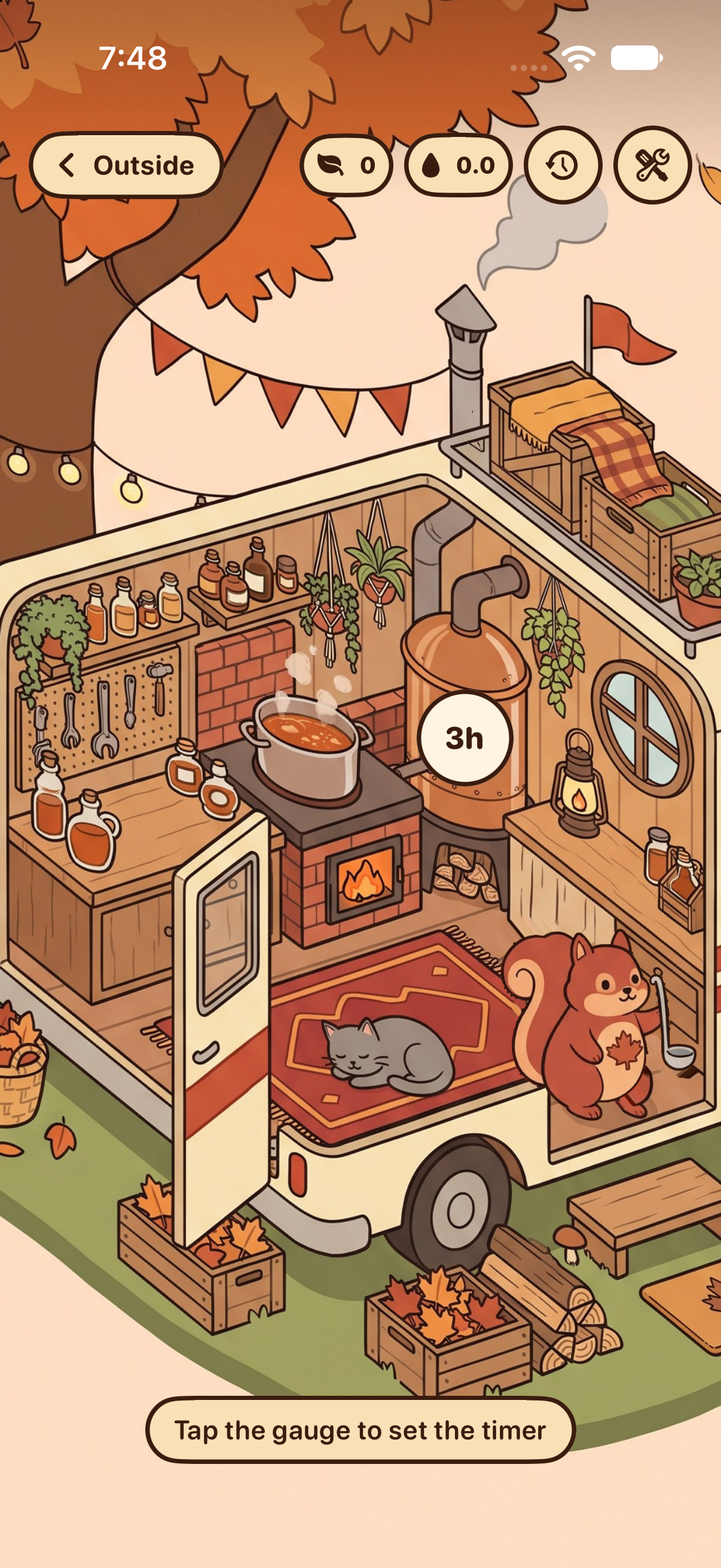
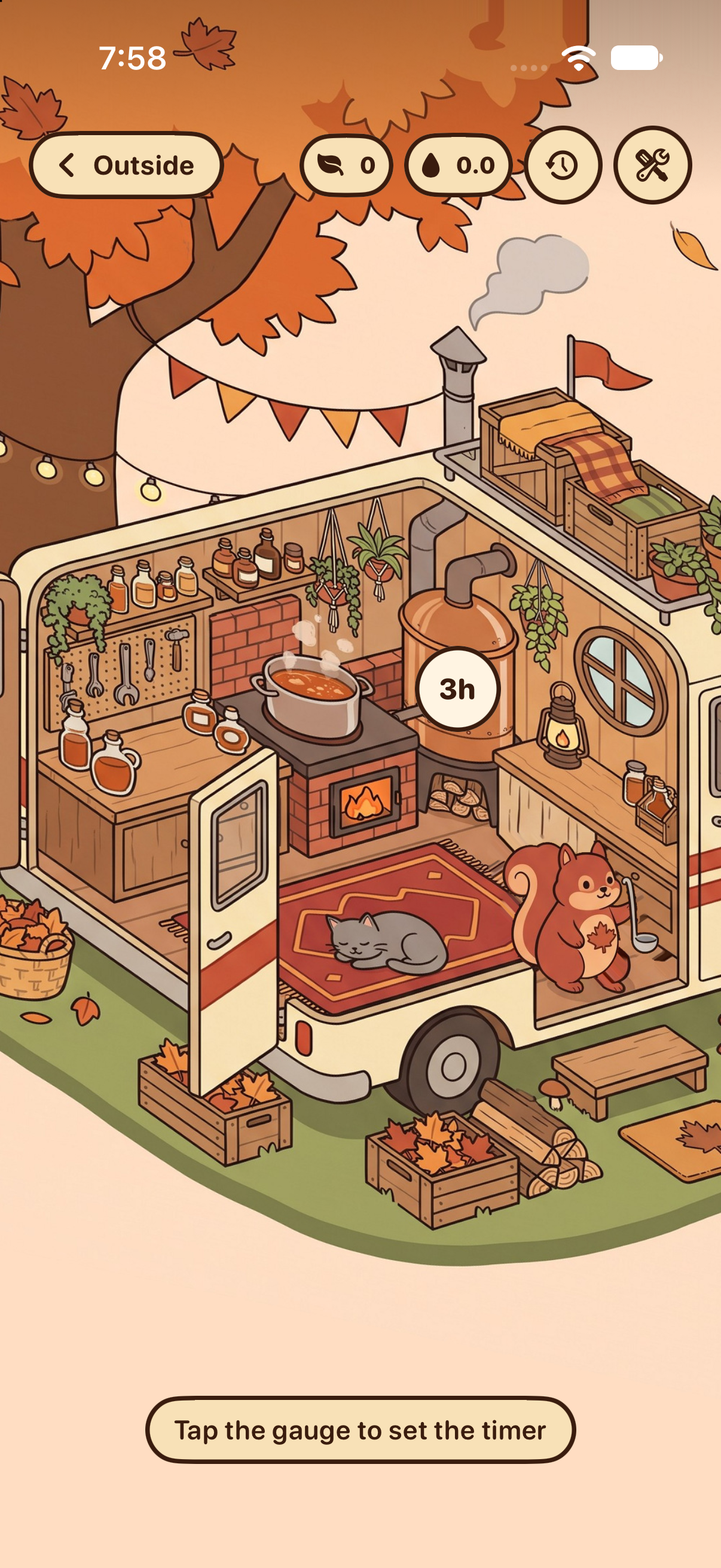
Inside the van: the van a little longer, the camera a little further back
The owner asked to "elongate the van a bit and zoom it out just a
little". The room is stretched 1.15 along the screen's width and seen
from 1.25 further back; Pip is neither stretched nor turned, only
smaller with the camera. The tap targets follow the picture.

diff --git a/App/Features/Van/VanWorkshopView.swift b/App/Features/Van/VanWorkshopView.swift
@@ -3,7 +3,8 @@ import MapleDesign
 import MapleServices
 import SwiftUI
 
-/// The workshop: the concept picture closer in, turned a little toward the front (syrup van design §5.2). The dial on
+/// The workshop: the concept picture closer in, turned a little toward the front, the van drawn a little longer (syrup
+/// van design §5.2). The dial on
 /// the boiler is the Focus button, the pot cooks a leaf, and the top row opens the machines and the study record.
 ///
 /// The room is the concept picture's own pixels (`Scripts/art/concept/build_concept_art.py`); Pip is laid over it
@@ -36,38 +37,38 @@ struct VanWorkshopView: View {
                         .accessibilityHidden(true)
                     Image("VanWorkshopPip")
                         .resizable()
-                        .frame(width: 285 * scale, height: 285 * scale)
+                        .frame(width: 228 * scale, height: 228 * scale)
                         .offset(y: breathes ? -2 : 0)
-                        .position(canvas.point(832.5, 1419.8, in: proxy.size))
+                        .position(canvas.point(807.3, 1272.5, in: proxy.size))
                         .accessibilityHidden(true)
 
                     // The pot on the stove.
-                    VanHotspot(width: 200 * scale, height: 170 * scale, action: cook)
-                        .position(canvas.point(420, 1016, in: proxy.size))
+                    VanHotspot(width: 185 * scale, height: 140 * scale, action: cook)
+                        .position(canvas.point(428, 949, in: proxy.size))
                         .accessibilityLabel("Cooking pot")
                         .accessibilityHint(workshop.leaves > 0 ? "Cooks one leaf into syrup" : "No leaves to cook")
                         .sensoryFeedback(.impact(weight: .light), trigger: cooked)
 
                     // The boiler's dome, above its gauge: the machines.
-                    VanHotspot(width: 170 * scale, height: 110 * scale) { showsMachines = true }
-                        .position(canvas.point(645, 885, in: proxy.size))
+                    VanHotspot(width: 160 * scale, height: 90 * scale) { showsMachines = true }
+                        .position(canvas.point(635, 842, in: proxy.size))
                         .accessibilityHidden(true)
 
                     // The boiler's gauge is the timer: its face is drawn large enough to read and to tap.
                     Button(action: onGauge) {
                         Text(gaugeText)
-                            .font(.system(size: 17, weight: .heavy, design: .rounded))
+                            .font(.system(size: 16, weight: .heavy, design: .rounded))
                             .minimumScaleFactor(0.5)
                             .lineLimit(1)
                             .foregroundStyle(VanPalette.outline)
                             .padding(.horizontal, 5)
-                            .frame(width: 54, height: 54)
+                            .frame(width: 48, height: 48)
                             .background(VanPalette.face, in: Circle())
                             .overlay(Circle().strokeBorder(VanPalette.outline, lineWidth: 2.5))
                             .contentShape(Circle())
                     }
                     .buttonStyle(.plain)
-                    .position(canvas.point(645, 1023, in: proxy.size))
+                    .position(canvas.point(635, 955, in: proxy.size))
                     .accessibilityLabel("Focus timer, \(gaugeText)")
                     .accessibilityHint(model.gaugeHint)
                 }

diff --git a/MapleKit/Tests/MapleCoreTests/VanCanvasTests.swift b/MapleKit/Tests/MapleCoreTests/VanCanvasTests.swift
@@ -28,8 +28,8 @@ struct VanCanvasTests {
 
     @Test("The workshop's timer lands on the boiler's gauge, where the turned picture has it")
     func workshopGauge() {
-        let gauge = VanCanvas.workshop.point(x: 645, y: 1023, width: 500, height: 1087)
-        #expect(gauge.x == 322.5 && gauge.y == 511.5)
+        let gauge = VanCanvas.workshop.point(x: 635, y: 955, width: 500, height: 1087)
+        #expect(gauge.x == 317.5 && gauge.y == 477.5)
     }
 
     @Test("Home is the concept picture at the top of a tall page: its full width, its corner at the screen's")

diff --git a/Scripts/art/concept/build_concept_art.py b/Scripts/art/concept/build_concept_art.py
@@ -269,13 +269,18 @@ CLOSEUP = (940, 1310)
 # toward the front. Turning is a shear: what stands upright stays upright, and the van's long side (the wall with the
 # pegboard, the stove and the boiler, which climbs to the right in the picture) lies flatter.
 SHOP_W, SHOP_H = 1000, 2174
-SHOP_LEFT, SHOP_TOP = 345, 300
+SHOP_LEFT, SHOP_TOP = 300, 140
 SHOP_TURN = -0.24
+# The van is drawn a little longer than in the picture (stretched along the screen's width; Pip is not), and the
+# camera stands a little further back: one pixel of the canvas is this many of the picture's.
+SHOP_LONGER = 1.15
+SHOP_BACK = 1.25
 
 
-def shop_point(x, y):
+def shop_point(x, y, turn=SHOP_TURN):
     """Where a point of the van picture is on the workshop's canvas."""
-    return (x - SHOP_LEFT, y - SHOP_TOP - SHOP_TURN * (x - SHOP_LEFT))
+    along = x - SHOP_LEFT
+    return (along * SHOP_LONGER / SHOP_BACK, (y - SHOP_TOP - turn * along) / SHOP_BACK)
 
 
 def fill_in(image, hole):
@@ -310,8 +315,13 @@ def workshop_scene(van, turn=SHOP_TURN):
     patch = fill_in(van.crop(box), hole[box[1]:box[3], box[0]:box[2]])
     without = van.copy()
     without.paste(patch, box[:2])
-    return without.transform((SHOP_W, SHOP_H), Image.AFFINE, (1, 0, SHOP_LEFT, turn, 1, SHOP_TOP), resample=Image.BICUBIC,
-                             fillcolor=PEACH)
+    # Turned, the top of the window looks a little above the picture's top edge, where the canopy carries on: the top
+    # row is carried up to cover it.
+    above = 320
+    taller = Image.fromarray(np.pad(np.asarray(without), ((above, 0), (0, 0), (0, 0)), mode="edge"))
+    step = SHOP_BACK / SHOP_LONGER
+    return taller.transform((SHOP_W, SHOP_H), Image.AFFINE, (step, 0, SHOP_LEFT, turn * step, SHOP_BACK, SHOP_TOP + above),
+                            resample=Image.BICUBIC, fillcolor=PEACH)
 
 
 def pip_with_pail(leaves):
@@ -352,11 +362,16 @@ def pip_with_pail(leaves):
 SHOP_PIP_BOX = (190, 135, 760, 705)
 
 
-def shop_pip_centre():
-    """The middle of that box on the workshop's canvas. He is not turned with the room: he stands where he stood."""
+def shop_pip_centre(turn=SHOP_TURN):
+    """The middle of that box on the workshop's canvas. He is not turned or stretched with the room: he stands where
+    he stood, upright, only smaller as the camera steps back."""
     x = CLOSEUP[0] + (SHOP_PIP_BOX[0] + SHOP_PIP_BOX[2]) / 4
     y = CLOSEUP[1] + (SHOP_PIP_BOX[1] + SHOP_PIP_BOX[3]) / 4
-    return shop_point(x, y)
+    return shop_point(x, y, turn)
+
+
+def shop_pip_size():
+    return ((SHOP_PIP_BOX[2] - SHOP_PIP_BOX[0]) / 2 / SHOP_BACK, (SHOP_PIP_BOX[3] - SHOP_PIP_BOX[1]) / 2 / SHOP_BACK)
 
 
 # ---------- writing ----------
@@ -410,14 +425,13 @@ def main():
             leaf.save(out / f"leaf-{i}.png")
         for turn in (0.0, SHOP_TURN):
             room = workshop_scene(van, turn).convert("RGBA")
-            half = shop_pip.resize((shop_pip.width // 2, shop_pip.height // 2), Image.LANCZOS)
-            cx = CLOSEUP[0] + (SHOP_PIP_BOX[0] + SHOP_PIP_BOX[2]) / 4 - SHOP_LEFT
-            cy = CLOSEUP[1] + (SHOP_PIP_BOX[1] + SHOP_PIP_BOX[3]) / 4 - SHOP_TOP - turn * cx
+            half = shop_pip.resize(tuple(round(v) for v in shop_pip_size()), Image.LANCZOS)
+            cx, cy = shop_pip_centre(turn)
             room.alpha_composite(half, (round(cx - half.width / 2), round(cy - half.height / 2)))
             room.convert("RGB").save(out / f"workshop-turn-{round(-turn * 100):02d}.png")
         workshop_scene(van).save(out / "workshop-without-pip.png")
     print("pip sprite", pip.size, "scene", scene.size, "leaves", [leaf.size for leaf in leaves])
-    print("workshop: pip centre", shop_pip_centre(), "size", (shop_pip.width / 2, shop_pip.height / 2))
+    print("workshop: pip centre", shop_pip_centre(), "size", shop_pip_size())
     for name, at in [("gauge", (990, 1168)), ("pot", (765, 1215)), ("boiler dome", (990, 1045)), ("lantern", (1140, 1195)),
                      ("jars on the bench", (410, 1390)), ("stove door", (850, 1395))]:
         print("workshop:", name, tuple(round(v) for v in shop_point(*at)))

diff --git a/docs/core-api.md b/docs/core-api.md
@@ -321,7 +321,7 @@ The views are in `App/Features/Van/`; their logic is pure and lives in `MapleCor
 - **Home and the session's maple are the concept pictures themselves**, never redrawn. Home shows `docs/design/concepts/2026-11-26-syrup-workshop/syrup-van.jpg` byte for byte (`VanHomePicture`), full width at the top of the screen with its own sky colour below, where the welcome and the button are. The maple of a running session (`VanTreeScene`), Pip with his pail (`VanTreePip`) and the three falling leaves are cut from the same pictures, pixel for pixel, by `python3 -I Scripts/art/concept/build_concept_art.py` (needs Pillow and numpy; pass a folder for previews). Only the trunk's hidden foot, the grass under it and the pail are added there. Don't restyle the van, Pip or the tree: change them only by changing the concept picture.
 - **A running session** with the van is `VanTreeSessionView` (shown by `RunningSessionView`): the maple, Pip in its fork, the time left under the tree, and leaves coming down. The leaves are `FallingLeaves` (pure, made from the clock alone): they are an animation and never say how many leaves a session has earned. End early's sheet and second question say "Ending now loses this session's leaves." (`losesLeaves` on `EndEarlyModel` and `EndBreathModel`).
 - **One canvas per view.** A view's pictures share one `VanCanvas` (`.home`, `.tree`, `.workshop`), in the picture's own pixels. Place a tap target with `canvas.point(x, y, in: size)`; the workshop's points (the gauge, the pot, the boiler's dome, where Pip stands) are printed by `build_concept_art.py` and written in `VanWorkshopView`.
-- **The workshop is the same picture, closer in and turned a little toward the front** (`VanWorkshopScene`; the owner's choice on 2026-11-27). The turn is a shear (`SHOP_TURN` in the script): what stands upright stays upright and the long wall with the pegboard, the stove and the boiler lies flatter, so it still reads as the picture's own 3D view. Pip is not turned: he is painted out of the room and laid back on top upright (`VanWorkshopPip`, with his ladle). The boiler's gauge carries a round face with the timer's length; the study record and the machines are round buttons in the top row.
+- **The workshop is the same picture, closer in and turned a little toward the front** (`VanWorkshopScene`; the owner's choice on 2026-11-27). The turn is a shear (`SHOP_TURN` in the script): what stands upright stays upright and the long wall with the pegboard, the stove and the boiler lies flatter, so it still reads as the picture's own 3D view. The room is also stretched a little along the screen's width (`SHOP_LONGER`, the owner's "elongate the van a bit") and seen from a little further back (`SHOP_BACK`). Pip is not turned or stretched: he is painted out of the room and laid back on top upright (`VanWorkshopPip`, with his ladle). The boiler's gauge carries a round face with the timer's length; the study record and the machines are round buttons in the top row.
 - **Nothing of the van is drawn in code any more.** The generator (`Scripts/art/vanart`, `build_van_art.py`, `check-van-art.sh`) and its image sets were removed on 2026-11-27; they are in the git history. After changing `build_concept_art.py`, run it and commit the image sets it rewrites.
 - **The words** on home come from `VanHomeModel` (the greeting by phase, the one status line, the counters, the button's title). The counters are nil while the van's file can't be read, so nothing is shown rather than a zero.
 - **The clock** is `ClockSetting` (pure: the hands, the hub's digits, turning past 12, the limits) drawn by `ClockFace`. `ClockTimerView` stands in the Focus tab's start route (`.start` and `.needsScreenTime`). A start goes through `VanTimer.preset(from:)`, which copies the member's last preset (its id and app list) and is always Gentle with no break. What block mode does is `VanBlocking` (not in this build, Screen Time off, off, no apps chosen, on): the first three start a plain timer. The length last set is kept in `van.minutes` (`VanTimer.length(saved:preset:)`), which the workshop's gauge reads too.
